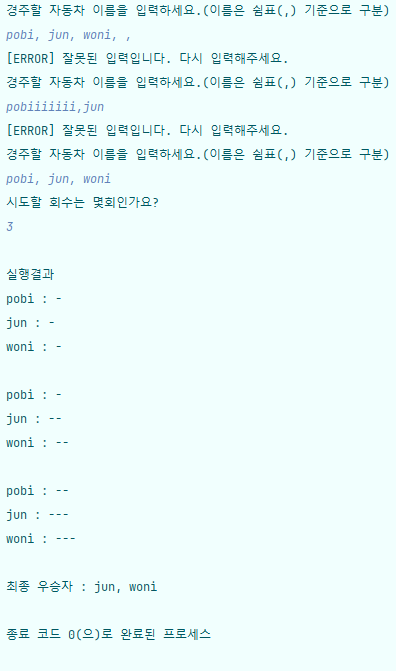
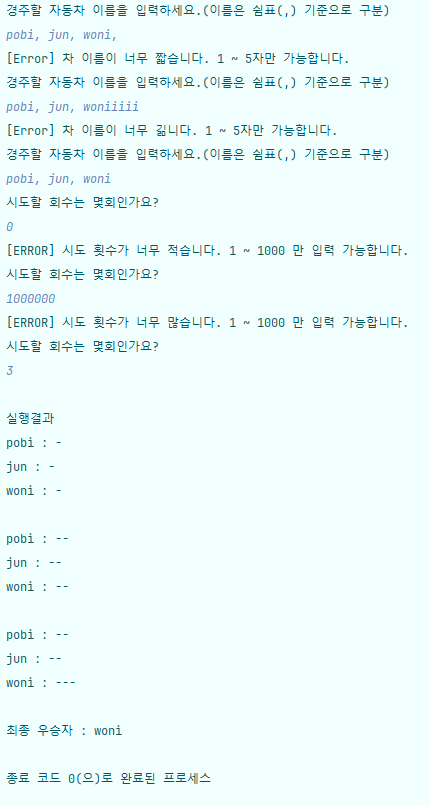
:memo: docs: README.md 업데이트

diff --git a/src/main/java/racingCar/view/UI.java b/src/main/java/racingCar/view/UI.java
@@ -26,9 +26,9 @@ public class UI {
         try {
             int userInputInt = scanner.nextInt();
             if(userInputInt < 1)
-                throw new TooLowAttemptException("[Error] 시도 횟수가 너무 적습니다. 1 ~ 1000 만 입력 가능합니다.");
+                throw new TooLowAttemptException("[ERROR] 시도 횟수가 너무 적습니다. 1 ~ 1000 만 입력 가능합니다.");
             if(userInputInt > MAX_ATTEMPTS)
-                throw new TooMuchAttemptException("[Error] 시도 횟수가 너무 많습니다. 1 ~ 1000 만 입력 가능합니다.");
+                throw new TooMuchAttemptException("[ERROR] 시도 횟수가 너무 많습니다. 1 ~ 1000 만 입력 가능합니다.");
             return userInputInt;
         } catch (InputMismatchException e) {
             throw new IllegalArgumentException();
